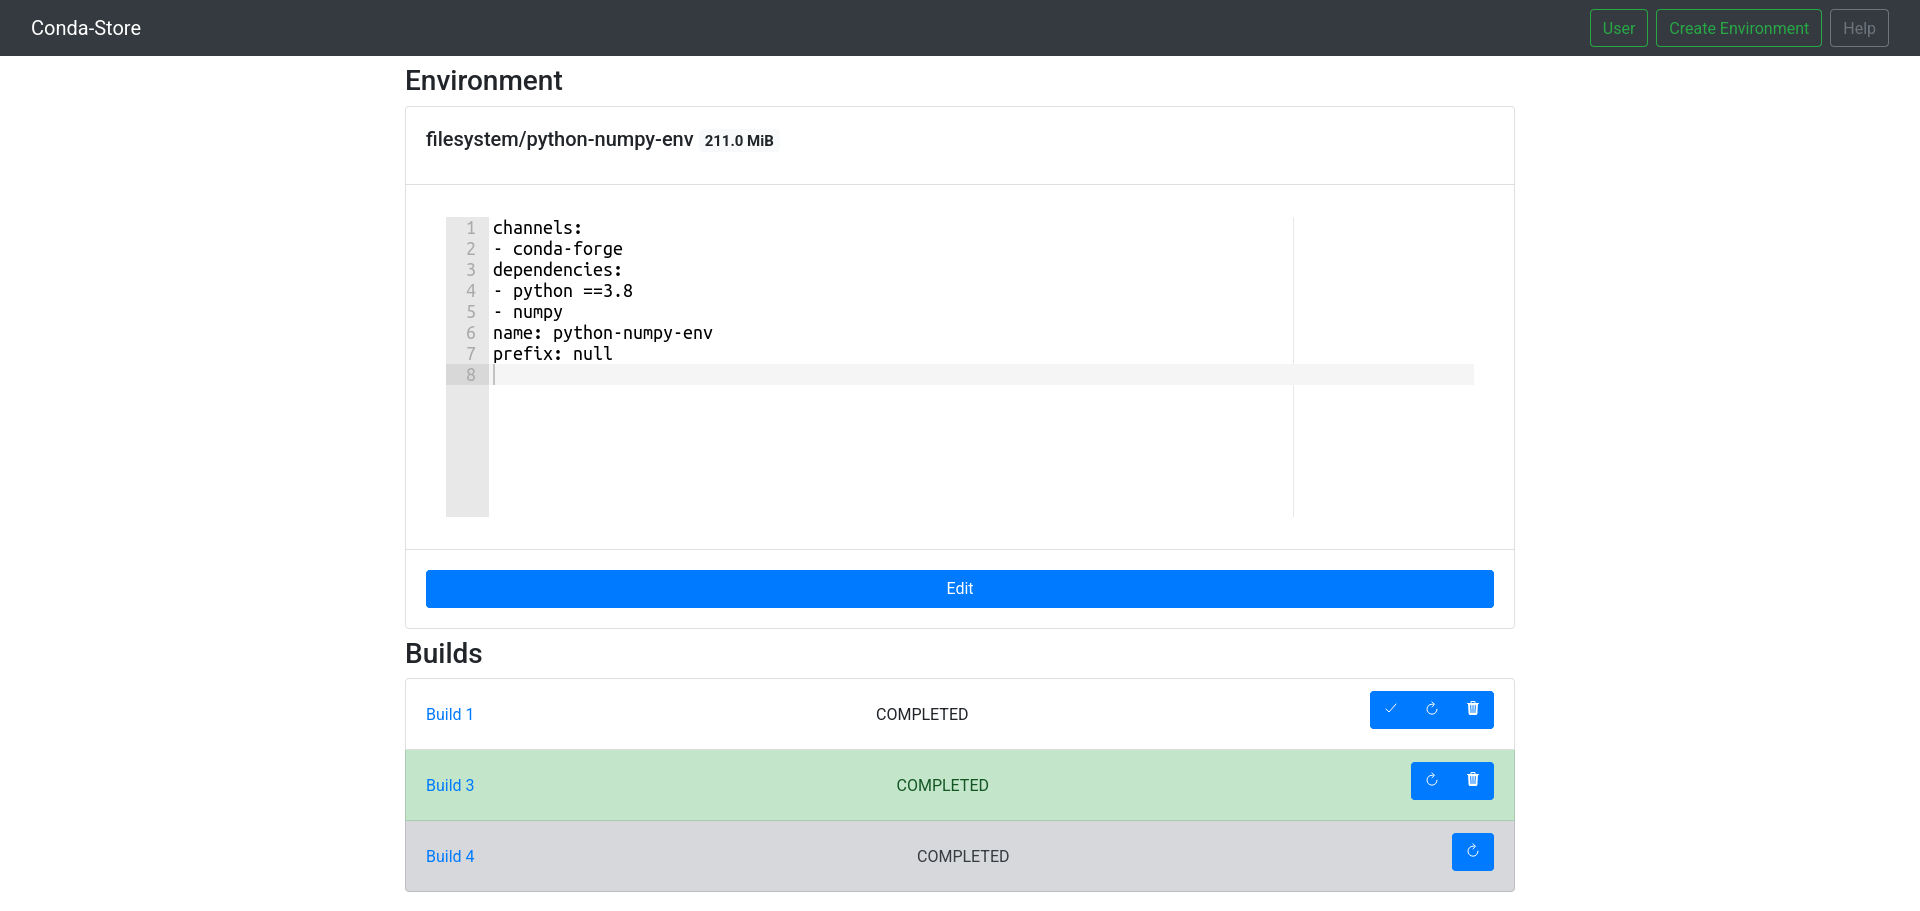
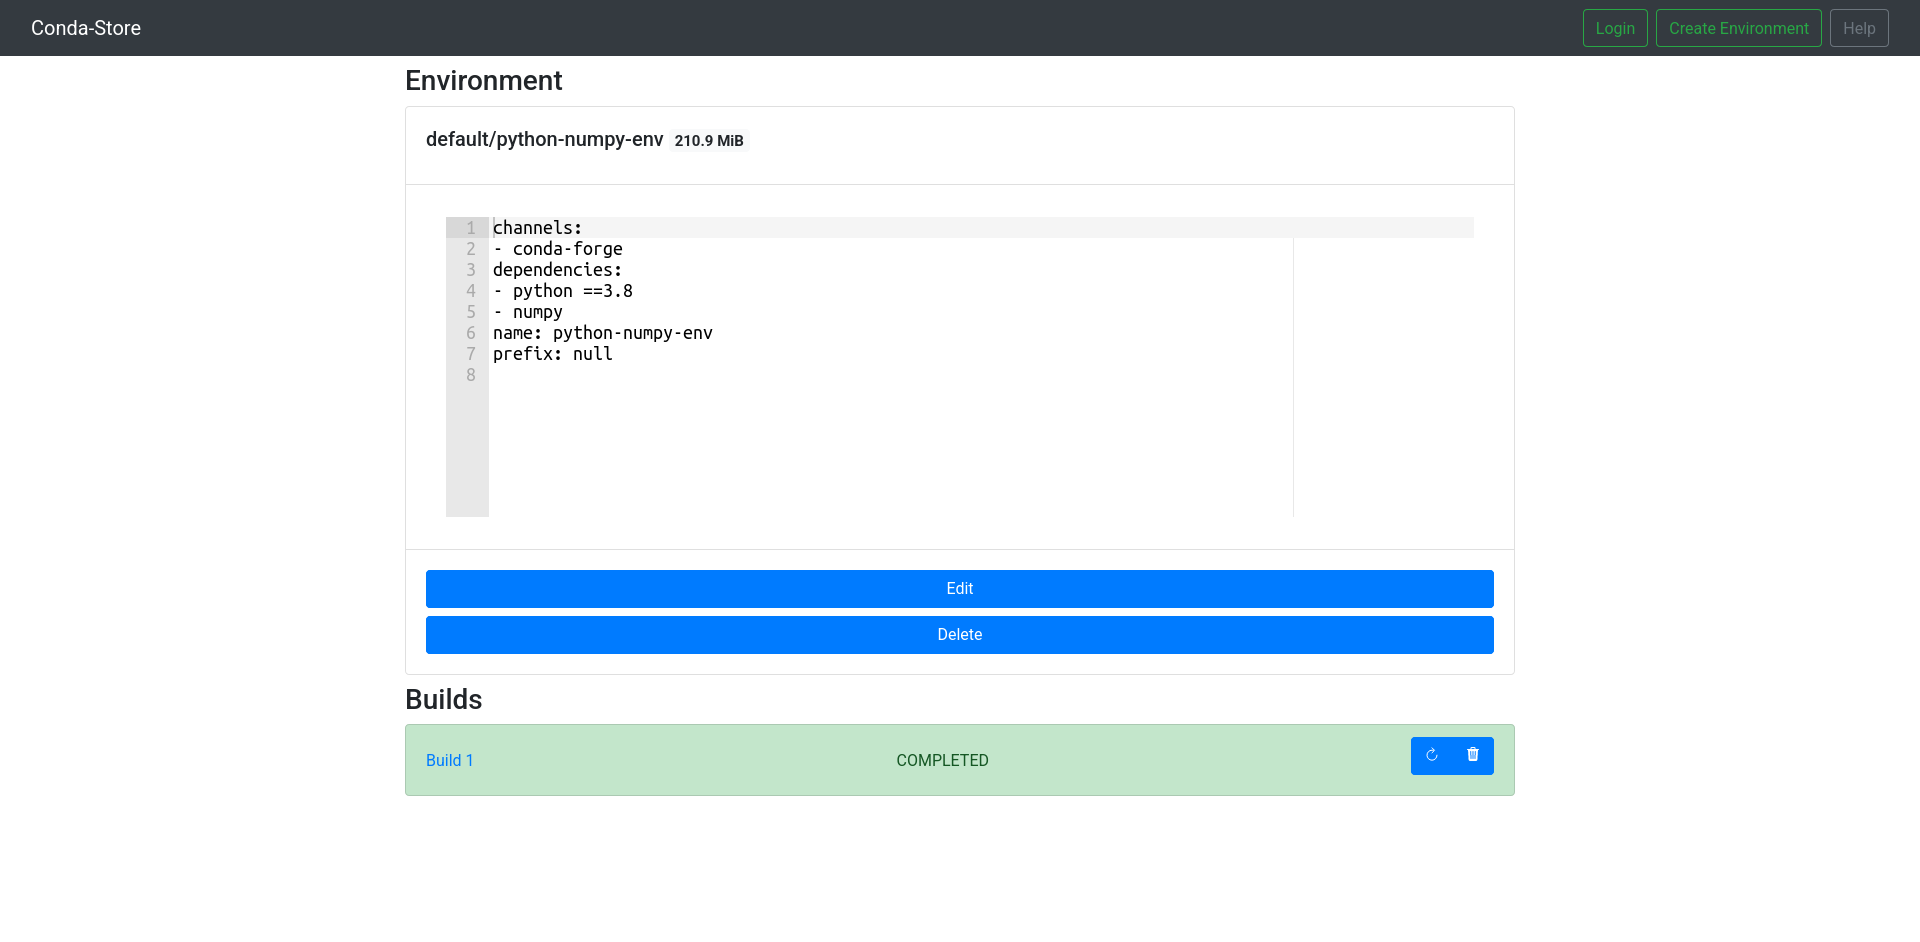
Adding to docs the new delete methods

diff --git a/docs/contributing.md b/docs/contributing.md
@@ -79,6 +79,8 @@ easier to contribute to the documentation.
  - `GET /api/v1/environment/<namespace>/<name>/` :: get environment
 
  - `PUT /api/v1/environment/<namespace>/<name>/` :: update environment to given build id
+
+ - `DELETE /api/v1/environment/<namespace>/<name>/` :: delete the environment along with all artifacts and builds
  
 ### Specifications
 
@@ -93,7 +95,7 @@ easier to contribute to the documentation.
 
  - `PUT /api/v1/build/<build_id>/` :: trigger new build of given build specification
 
- - `DELETE /api/v1/build/<build_id>/` :: delete given build
+ - `DELETE /api/v1/build/<build_id>/` :: delete given build along with all artifacts that are not in `c.CondaStore.build_artifacts_kept_on_deletion`
 
  - `GET /api/v1/build/<build_id>/logs/` :: get build logs
 

diff --git a/docs/user_guide.md b/docs/user_guide.md
@@ -182,7 +182,8 @@ developer. First we see the environment name and namespace along with
 the disk space that the environment consumes. Right below this
 information is the full `environment.yaml` specification of the
 currently activated build. User's can quickly edit this existing
-environment by clicking the `edit` button.
+environment by clicking the `edit` button. Additionally the entire
+environment can be deleted via the `delete` button.
 
 Below this is a list of the current builds of the given
 environment. The environment highlighted in `green` is the current
